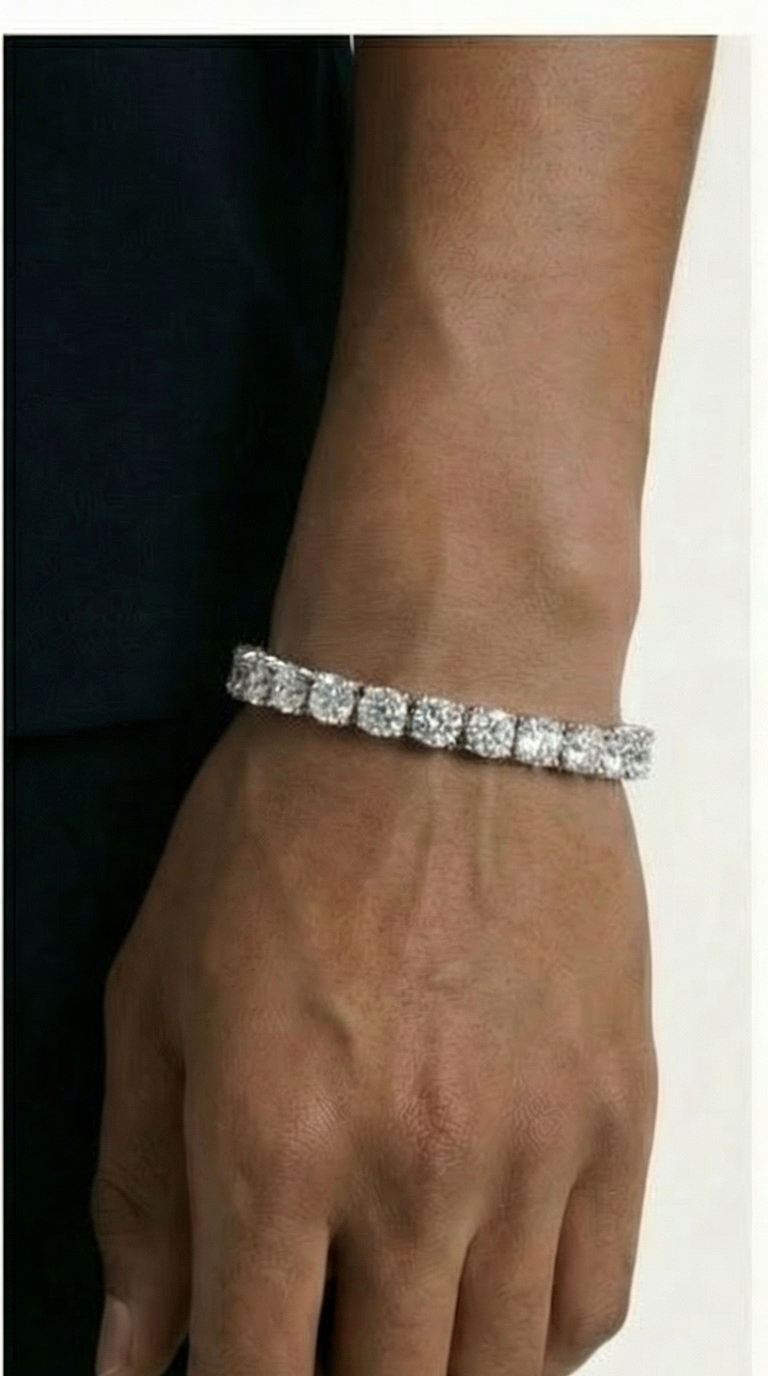
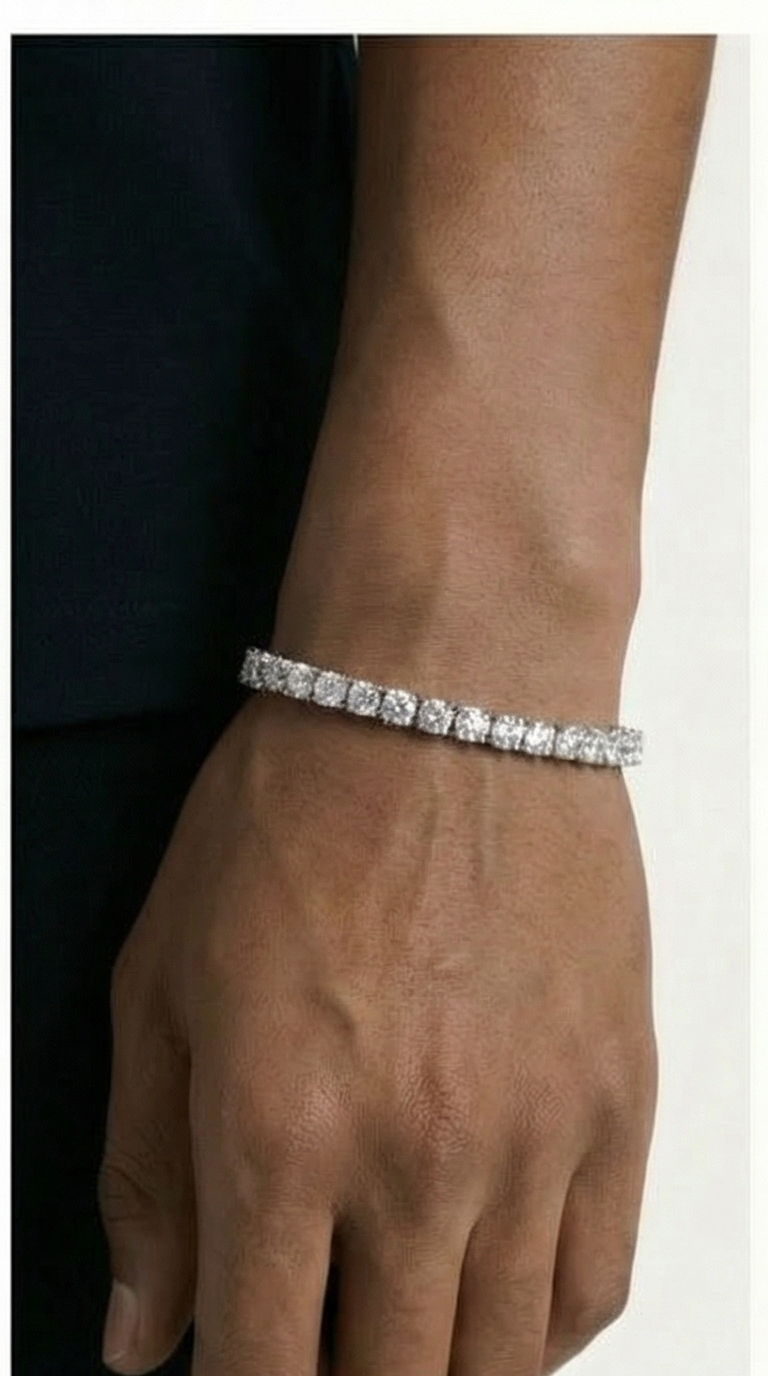
Replace Rose Gold Tennis Bracelet images with new 3-crop set

diff --git a/src/constants.ts b/src/constants.ts
@@ -136,8 +136,7 @@ export const PRODUCTS: Product[] = [
     images: [
       '/rosegold-brace-1.png',
       '/rosegold-brace-2.png',
-      '/rosegold-brace-3.png',
-      '/rosegold-brace-4.png'
+      '/rosegold-brace-3.png'
     ],
     thickness: ['3mm', '4mm'],
     lengths: ['7"', '8"'],
